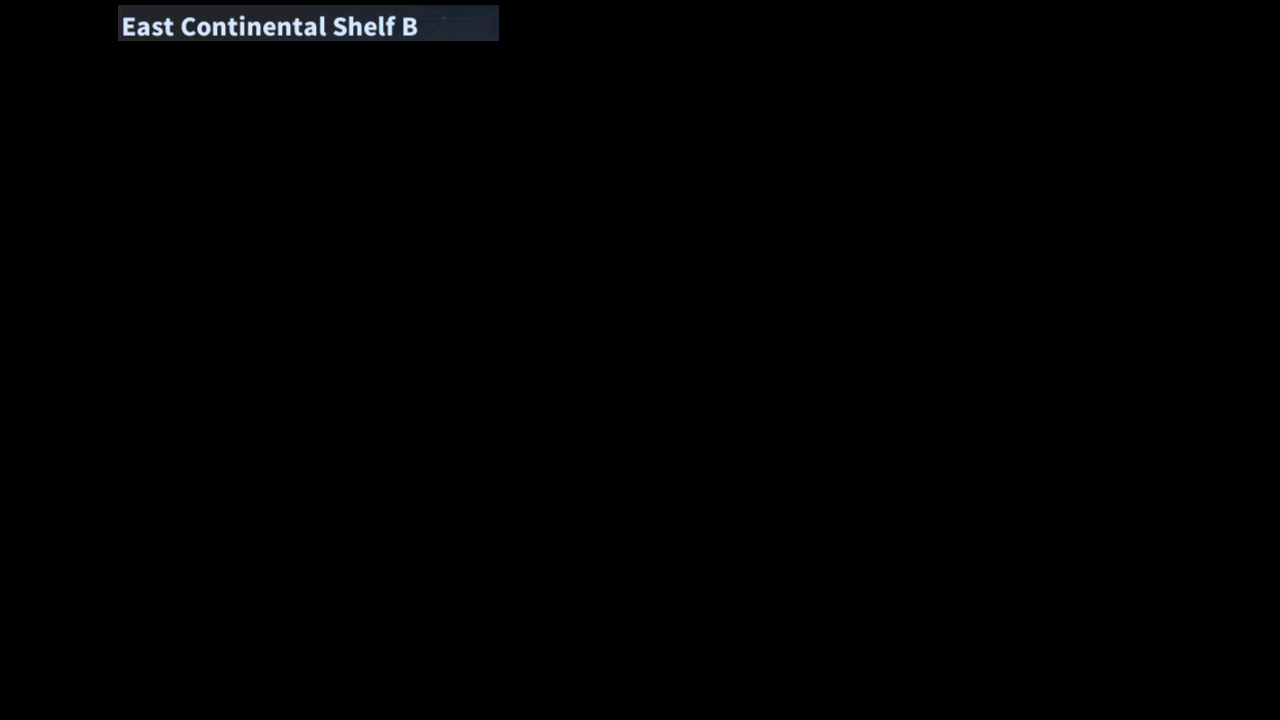
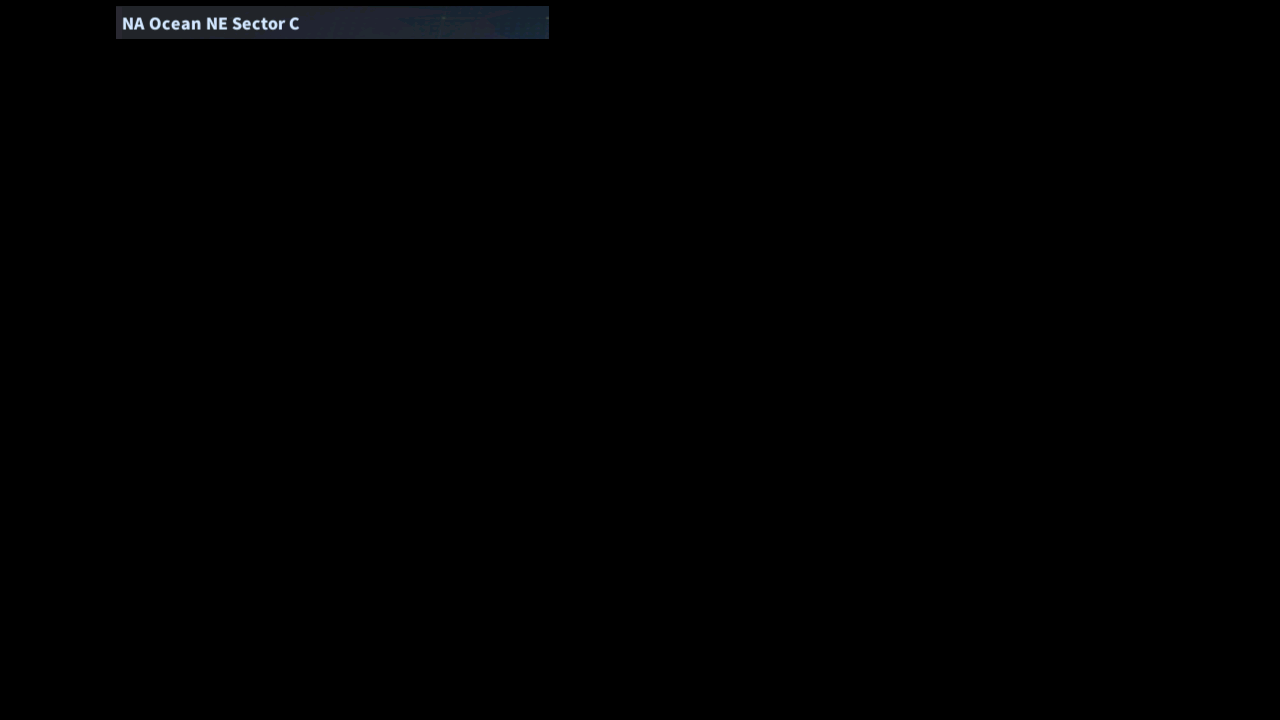
Fix: [EN] adjust OCR parameters; additional string replace hot fixes (#1479) Upd: [EN] map name asset; font/size changes post maintenance

Changed region(s): [[0.0938, 0.0, 0.3438, 0.0611], [0.375, 0.0, 0.4375, 0.0611]]

diff --git a/module/os/assets.py b/module/os/assets.py
@@ -14,7 +14,7 @@ FLEET_EMP_DEBUFF = Button(area={'cn': (137, 144, 175, 167), 'en': (137, 144, 175
 GLOBE_GOTO_MAP = Button(area={'cn': (37, 29, 83, 75), 'en': (37, 29, 83, 75), 'jp': (37, 29, 83, 75), 'tw': (37, 29, 83, 75)}, color={'cn': (112, 119, 157), 'en': (112, 119, 157), 'jp': (112, 119, 157), 'tw': (112, 119, 157)}, button={'cn': (37, 29, 83, 75), 'en': (37, 29, 83, 75), 'jp': (37, 29, 83, 75), 'tw': (37, 29, 83, 75)}, file={'cn': './assets/cn/os/GLOBE_GOTO_MAP.png', 'en': './assets/en/os/GLOBE_GOTO_MAP.png', 'jp': './assets/jp/os/GLOBE_GOTO_MAP.png', 'tw': './assets/tw/os/GLOBE_GOTO_MAP.png'})
 MAP_EXIT = Button(area={'cn': (1147, 637, 1280, 699), 'en': (1148, 641, 1280, 699), 'jp': (1147, 637, 1280, 699), 'tw': (1147, 639, 1280, 703)}, color={'cn': (47, 35, 42), 'en': (32, 20, 20), 'jp': (58, 34, 34), 'tw': (55, 46, 43)}, button={'cn': (1147, 637, 1280, 699), 'en': (1148, 641, 1280, 699), 'jp': (1147, 637, 1280, 699), 'tw': (1147, 639, 1280, 703)}, file={'cn': './assets/cn/os/MAP_EXIT.png', 'en': './assets/en/os/MAP_EXIT.png', 'jp': './assets/jp/os/MAP_EXIT.png', 'tw': './assets/tw/os/MAP_EXIT.png'})
 MAP_GOTO_GLOBE = Button(area={'cn': (1069, 641, 1260, 695), 'en': (1069, 641, 1260, 691), 'jp': (1064, 636, 1265, 699), 'tw': (1069, 641, 1260, 694)}, color={'cn': (212, 140, 140), 'en': (212, 140, 140), 'jp': (207, 132, 132), 'tw': (213, 143, 143)}, button={'cn': (1069, 641, 1260, 695), 'en': (1069, 641, 1260, 691), 'jp': (1064, 636, 1265, 699), 'tw': (1069, 641, 1260, 694)}, file={'cn': './assets/cn/os/MAP_GOTO_GLOBE.png', 'en': './assets/en/os/MAP_GOTO_GLOBE.png', 'jp': './assets/jp/os/MAP_GOTO_GLOBE.png', 'tw': './assets/tw/os/MAP_GOTO_GLOBE.png'})
-MAP_NAME = Button(area={'cn': (120, 9, 400, 41), 'en': (118, 5, 499, 41), 'jp': (115, 14, 421, 41), 'tw': (122, 12, 365, 39)}, color={'cn': (60, 66, 77), 'en': (64, 73, 83), 'jp': (94, 104, 120), 'tw': (68, 75, 86)}, button={'cn': (120, 9, 400, 41), 'en': (118, 5, 499, 41), 'jp': (115, 14, 421, 41), 'tw': (122, 12, 365, 39)}, file={'cn': './assets/cn/os/MAP_NAME.png', 'en': './assets/en/os/MAP_NAME.png', 'jp': './assets/jp/os/MAP_NAME.png', 'tw': './assets/tw/os/MAP_NAME.png'})
+MAP_NAME = Button(area={'cn': (120, 9, 400, 41), 'en': (116, 6, 549, 39), 'jp': (115, 14, 421, 41), 'tw': (122, 12, 365, 39)}, color={'cn': (60, 66, 77), 'en': (43, 50, 60), 'jp': (94, 104, 120), 'tw': (68, 75, 86)}, button={'cn': (120, 9, 400, 41), 'en': (116, 6, 549, 39), 'jp': (115, 14, 421, 41), 'tw': (122, 12, 365, 39)}, file={'cn': './assets/cn/os/MAP_NAME.png', 'en': './assets/en/os/MAP_NAME.png', 'jp': './assets/jp/os/MAP_NAME.png', 'tw': './assets/tw/os/MAP_NAME.png'})
 MEOWFFICER_SEARCHING = Button(area={'cn': (172, 606, 220, 619), 'en': (172, 607, 221, 616), 'jp': (173, 606, 220, 619), 'tw': (173, 605, 221, 619)}, color={'cn': (67, 131, 149), 'en': (75, 132, 150), 'jp': (76, 138, 158), 'tw': (78, 152, 173)}, button={'cn': (172, 606, 220, 619), 'en': (172, 607, 221, 616), 'jp': (173, 606, 220, 619), 'tw': (173, 605, 221, 619)}, file={'cn': './assets/cn/os/MEOWFFICER_SEARCHING.png', 'en': './assets/en/os/MEOWFFICER_SEARCHING.png', 'jp': './assets/jp/os/MEOWFFICER_SEARCHING.png', 'tw': './assets/tw/os/MEOWFFICER_SEARCHING.png'})
 MEOWFFICER_SEARCHING_PERCENTAGE = Button(area={'cn': (144, 621, 223, 623), 'en': (144, 621, 223, 623), 'jp': (144, 621, 223, 623), 'tw': (144, 621, 223, 623)}, color={'cn': (52, 167, 190), 'en': (52, 167, 190), 'jp': (52, 167, 190), 'tw': (52, 167, 190)}, button={'cn': (144, 621, 223, 623), 'en': (144, 621, 223, 623), 'jp': (144, 621, 223, 623), 'tw': (144, 621, 223, 623)}, file={'cn': './assets/cn/os/MEOWFFICER_SEARCHING_PERCENTAGE.png', 'en': './assets/en/os/MEOWFFICER_SEARCHING_PERCENTAGE.png', 'jp': './assets/jp/os/MEOWFFICER_SEARCHING_PERCENTAGE.png', 'tw': './assets/tw/os/MEOWFFICER_SEARCHING_PERCENTAGE.png'})
 SELECT_ABYSSAL = Button(area={'cn': (89, 251, 167, 269), 'en': (93, 254, 161, 268), 'jp': (89, 251, 167, 269), 'tw': (88, 250, 167, 270)}, color={'cn': (107, 110, 112), 'en': (100, 103, 104), 'jp': (115, 118, 119), 'tw': (98, 101, 102)}, button={'cn': (89, 251, 167, 269), 'en': (93, 254, 161, 268), 'jp': (89, 251, 167, 269), 'tw': (88, 250, 167, 270)}, file={'cn': './assets/cn/os/SELECT_ABYSSAL.png', 'en': './assets/en/os/SELECT_ABYSSAL.png', 'jp': './assets/jp/os/SELECT_ABYSSAL.png', 'tw': './assets/tw/os/SELECT_ABYSSAL.png'})

diff --git a/module/os/map_operation.py b/module/os/map_operation.py
@@ -44,7 +44,7 @@ class OSMapOperation(MapOrderHandler, MissionHandler, PortHandler, StorageHandle
     def get_zone_name(self):
         # For EN only
         from string import whitespace
-        ocr = Ocr(MAP_NAME, lang='cnocr', letter=(214, 235, 235), threshold=96, name='OCR_OS_MAP_NAME')
+        ocr = Ocr(MAP_NAME, lang='cnocr', letter=(206, 223, 247), threshold=96, name='OCR_OS_MAP_NAME')
         name = ocr.ocr(self.device.image)
         name = name.translate(dict.fromkeys(map(ord, whitespace)))
         name = name.lower()
@@ -57,10 +57,17 @@ class OSMapOperation(MapOrderHandler, MissionHandler, PortHandler, StorageHandle
             name = 'nycity'
         if 'cibraltar' in name:
             name = 'gibraltar'
+
+        # Occasional mis-read by OCR, hotfix
         name = name.replace('pasage', 'passage')
-        # `-` is missing
+        name = name.replace('shef', 'shelf')
+
+        # `-` is missing or read as '.'
+        # due to font size
         name = name.replace('safe', '')
         name = name.replace('zone', '')
+        if name.endswith('.'):
+            name = name[0:-1]
         return name
 
     @Config.when(SERVER='jp')
